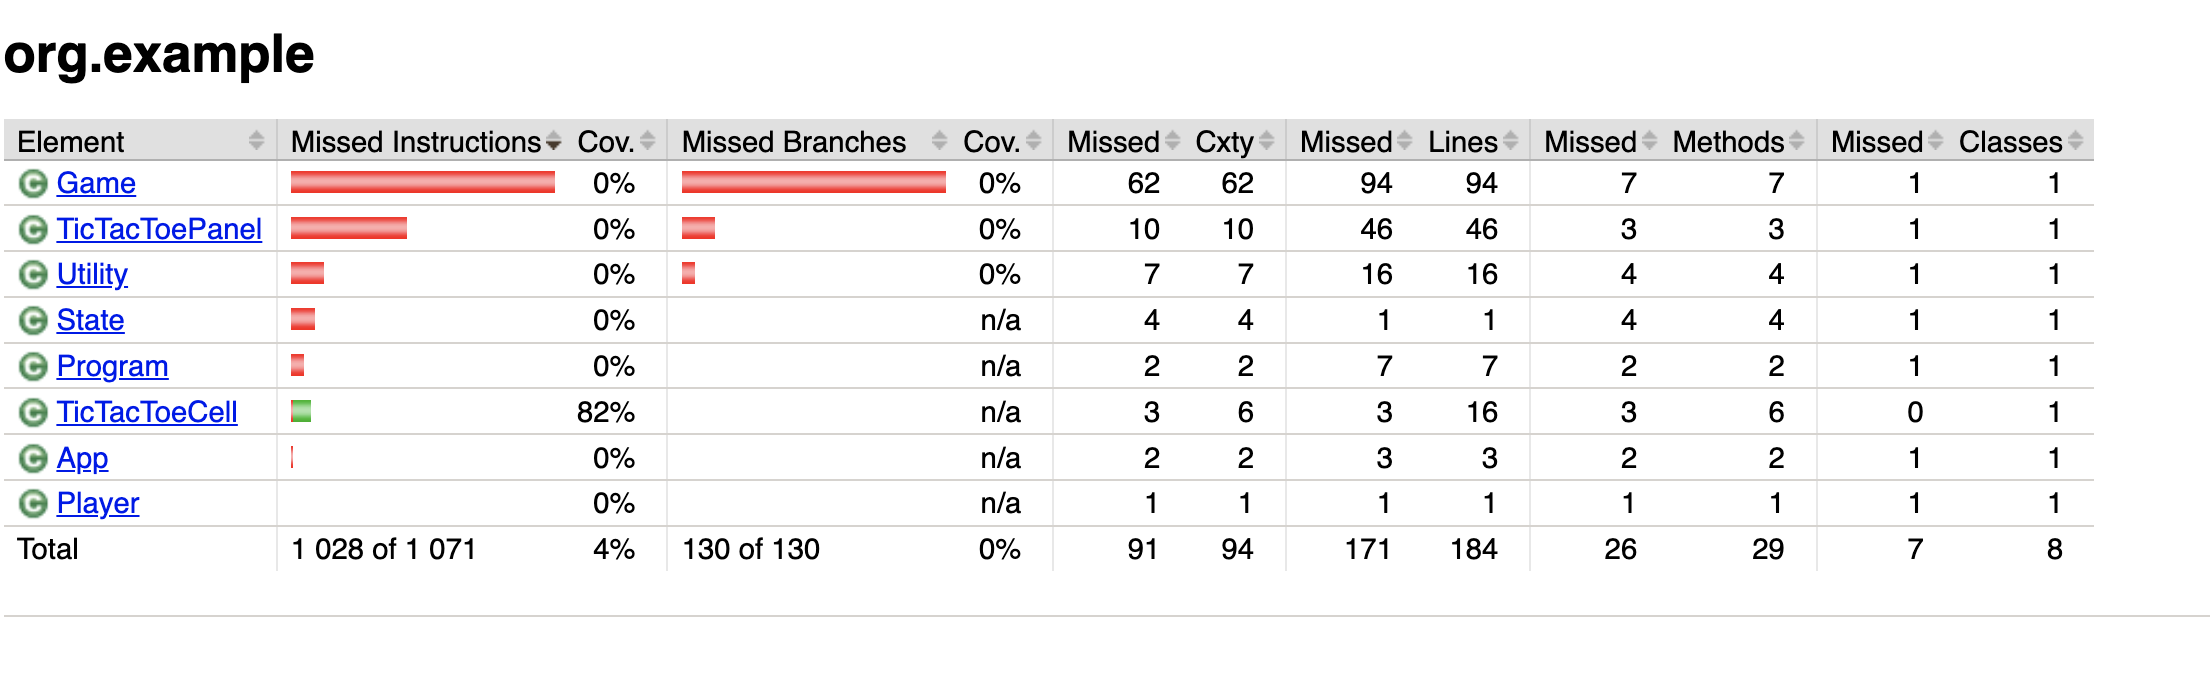
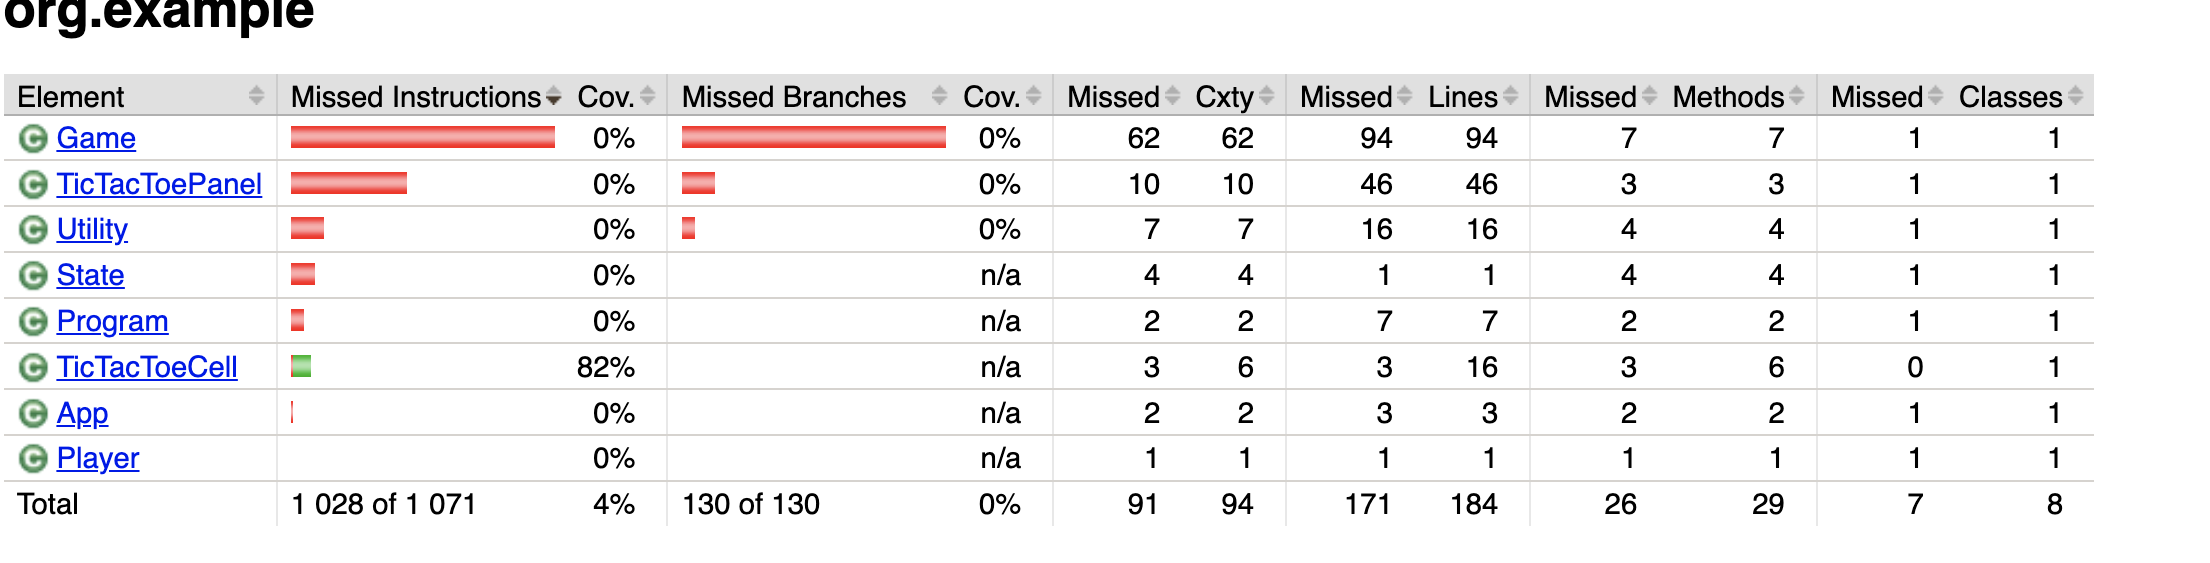
ST-6 release

Changed region(s): [[0.0, 0.0, 0.9679, 0.9361]]

diff --git a/src/test/java/com/dura1/GameTest.java b/src/test/java/com/dura1/GameTest.java
@@ -1,0 +1,150 @@
+package com.dura1;
+
+import org.junit.Assert;
+import org.junit.Before;
+import org.junit.Test;
+
+import java.io.ByteArrayOutputStream;
+import java.io.PrintStream;
+import java.util.ArrayList;
+import java.util.Arrays;
+
+public class GameTest {
+
+    private Game game;
+    private final ByteArrayOutputStream out = new ByteArrayOutputStream();
+
+    @Before
+    public void setUp() {
+        System.setProperty("java.awt.headless", "true");
+        game = new Game();
+        System.setOut(new PrintStream(out));
+    }
+
+    @Test
+    public void checkStatePlayingEmpty() {
+        game.symbol = 'X';
+        char[] b = new char[9];
+        Arrays.fill(b, ' ');
+        Assert.assertEquals(State.PLAYING, game.checkState(b));
+    }
+
+    @Test
+    public void checkStateXWinTopRow() {
+        game.symbol = 'X';
+        char[] b = {'X', 'X', 'X', ' ', ' ', ' ', ' ', ' ', ' '};
+        Assert.assertEquals(State.XWIN, game.checkState(b));
+    }
+
+    @Test
+    public void checkStateOWinColumn() {
+        game.symbol = 'O';
+        char[] b = {'O', ' ', ' ', 'O', ' ', ' ', 'O', ' ', ' '};
+        Assert.assertEquals(State.OWIN, game.checkState(b));
+    }
+
+    @Test
+    public void checkStateDrawFull() {
+        game.symbol = 'X';
+        char[] b = {'X', 'O', 'X', 'X', 'O', 'O', 'O', 'X', 'X'};
+        Assert.assertEquals(State.DRAW, game.checkState(b));
+    }
+
+    @Test
+    public void checkStateDiagWin() {
+        game.symbol = 'X';
+        char[] b = {'X', ' ', ' ', ' ', 'X', ' ', ' ', ' ', 'X'};
+        Assert.assertEquals(State.XWIN, game.checkState(b));
+    }
+
+    @Test
+    public void checkStateAntiDiagWin() {
+        game.symbol = 'O';
+        char[] b = {' ', ' ', 'O', ' ', 'O', ' ', 'O', ' ', ' '};
+        Assert.assertEquals(State.OWIN, game.checkState(b));
+    }
+
+    @Test
+    public void evaluateXWinForX() {
+        game.symbol = 'X';
+        char[] b = {'X', 'X', 'X', ' ', ' ', ' ', ' ', ' ', ' '};
+        Player p = new Player();
+        p.symbol = 'X';
+        Assert.assertEquals(Game.INF, game.evaluatePosition(b, p));
+    }
+
+    @Test
+    public void evaluateXWinForO() {
+        game.symbol = 'X';
+        char[] b = {'X', 'X', 'X', ' ', ' ', ' ', ' ', ' ', ' '};
+        Player p = new Player();
+        p.symbol = 'O';
+        Assert.assertEquals(-Game.INF, game.evaluatePosition(b, p));
+    }
+
+    @Test
+    public void evaluateDraw() {
+        game.symbol = 'X';
+        char[] b = {'X', 'O', 'X', 'X', 'O', 'O', 'O', 'X', 'X'};
+        Player p = new Player();
+        p.symbol = 'X';
+        Assert.assertEquals(0, game.evaluatePosition(b, p));
+    }
+
+    @Test
+    public void evaluateNonTerminal() {
+        game.symbol = 'X';
+        char[] b = {'X', ' ', ' ', ' ', ' ', ' ', ' ', ' ', ' '};
+        Player p = new Player();
+        p.symbol = 'X';
+        Assert.assertEquals(-1, game.evaluatePosition(b, p));
+    }
+
+    @Test
+    public void generateMovesListsEmptyCells() {
+        char[] b = {'X', ' ', ' ', ' ', 'O', ' ', ' ', ' ', ' '};
+        ArrayList<Integer> m = new ArrayList<>();
+        game.generateMoves(b, m);
+        Assert.assertEquals(7, m.size());
+        Assert.assertTrue(m.contains(1));
+        Assert.assertFalse(m.contains(0));
+    }
+
+    @Test
+    public void minimaxChoosesMoveFromEmpty() {
+        game.symbol = ' ';
+        Arrays.fill(game.board, ' ');
+        game.player1.symbol = 'X';
+        game.player2.symbol = 'O';
+        Player ai = game.player2;
+        int move = game.MiniMax(game.board, ai);
+        Assert.assertTrue(move >= 1 && move <= 9);
+    }
+
+    @Test
+    public void minimaxBlocksImmediateWin() {
+        game.symbol = 'X';
+        char[] b = {'X', 'X', ' ', ' ', 'O', ' ', ' ', ' ', ' '};
+        System.arraycopy(b, 0, game.board, 0, 9);
+        game.player2.symbol = 'O';
+        int move = game.MiniMax(game.board, game.player2);
+        Assert.assertEquals(3, move);
+    }
+
+    @Test
+    public void minimaxFromNearEnd() {
+        game.symbol = 'X';
+        char[] b = {'X', 'O', 'X', 'O', 'X', ' ', 'O', 'X', 'O'};
+        System.arraycopy(b, 0, game.board, 0, 9);
+        game.player2.symbol = 'O';
+        int move = game.MiniMax(game.board, game.player2);
+        Assert.assertEquals(6, move);
+    }
+
+    @Test
+    public void playerDefaults() {
+        Player p = new Player();
+        Assert.assertFalse(p.selected);
+        Assert.assertFalse(p.win);
+    }
+}

diff --git a/src/main/java/com/dura1/Program.java b/src/main/java/com/dura1/Program.java
@@ -1,5 +1,5 @@
-// Реализация игры "Крестики-нолики" (3x3)
-// Минимаксный алгоритм
+package com.dura1;// Р РµР°Р»РёР·Р°С†РёСЏ РёРіСЂС‹ "РљСЂРµСЃС‚РёРєРё-РЅРѕР»РёРєРё" (3x3)
+// РњРёРЅРёРјР°РєСЃРЅС‹Р№ Р°Р»РіРѕСЂРёС‚Рј
 
 import java.awt.*;
 import java.awt.event.*;
@@ -23,8 +23,8 @@ class Player {
 class Game {
     public State state;
     public Player player1, player2;
-    public Player cplayer; // текущий игрок
-    public int nmove;  // последний шаг сделанный действующим игроком 
+    public Player cplayer; // С‚РµРєСѓС‰РёР№ РёРіСЂРѕРє
+    public int nmove;  // РїРѕСЃР»РµРґРЅРёР№ С€Р°Рі СЃРґРµР»Р°РЅРЅС‹Р№ РґРµР№СЃС‚РІСѓСЋС‰РёРј РёРіСЂРѕРєРѕРј 
     public char symbol;
     public static final int INF = 100;
     public int q;
@@ -37,12 +37,12 @@ class Game {
       player1.symbol='X';
       player2.symbol='O';
       state=State.PLAYING; 
-      board=new char[9];   // текущая доска в игре  
+      board=new char[9];   // С‚РµРєСѓС‰Р°СЏ РґРѕСЃРєР° РІ РёРіСЂРµ  
       for(int i=0;i<9;i++)
         board[i]=' ';
     }
 
-    // возвращаем состояние игры
+    // РІРѕР·РІСЂР°С‰Р°РµРј СЃРѕСЃС‚РѕСЏРЅРёРµ РёРіСЂС‹
     public State checkState(char[] board) 
     {
       //char symbol=game.symbol;//cplayer.symbol;
@@ -73,14 +73,14 @@ class Game {
     }
     return state;
   }
-     // сгенерировать возможные ходы
+     // СЃРіРµРЅРµСЂРёСЂРѕРІР°С‚СЊ РІРѕР·РјРѕР¶РЅС‹Рµ С…РѕРґС‹
    void generateMoves(char[] board, ArrayList<Integer> move_list) {
     for (int i = 0; i < 9; i++) 
         if (board[i] == ' ') 
             move_list.add(i);
    }
 
-   // оценка позиции
+   // РѕС†РµРЅРєР° РїРѕР·РёС†РёРё
    int evaluatePosition(char[] board, Player player)  
    {
     State state=checkState(board);
@@ -96,7 +96,7 @@ class Game {
     return -1;
    }
 
-   int MiniMax(char[] board, Player player) // выбор наилучшего хода
+   int MiniMax(char[] board, Player player) // РІС‹Р±РѕСЂ РЅР°РёР»СѓС‡С€РµРіРѕ С…РѕРґР°
    {
     int best_val = -Game.INF, index = 0;
     ArrayList<Integer> move_list=new ArrayList<>();
@@ -314,16 +314,16 @@ class TicTacToePanel extends JPanel implements ActionListener {
 
 
       if(game.state==State.XWIN) {
-        JOptionPane.showMessageDialog(null,"Выиграли крестики","Результат", JOptionPane.WARNING_MESSAGE);
+        JOptionPane.showMessageDialog(null,"Р’С‹РёРіСЂР°Р»Рё РєСЂРµСЃС‚РёРєРё","Р РµР·СѓР»СЊС‚Р°С‚", JOptionPane.WARNING_MESSAGE);
         System.exit(0);
 
       }
       else if(game.state==State.OWIN) {
-        JOptionPane.showMessageDialog(null,"Выиграли нолики","Результат", JOptionPane.WARNING_MESSAGE);
+        JOptionPane.showMessageDialog(null,"Р’С‹РёРіСЂР°Р»Рё РЅРѕР»РёРєРё","Р РµР·СѓР»СЊС‚Р°С‚", JOptionPane.WARNING_MESSAGE);
         System.exit(0);
       }
       else if(game.state==State.DRAW) {
-        JOptionPane.showMessageDialog(null,"Ничья","Результат", JOptionPane.WARNING_MESSAGE);
+        JOptionPane.showMessageDialog(null,"РќРёС‡СЊСЏ","Р РµР·СѓР»СЊС‚Р°С‚", JOptionPane.WARNING_MESSAGE);
         System.exit(0);
       } 
 

diff --git a/src/test/java/com/dura1/UtilityTest.java b/src/test/java/com/dura1/UtilityTest.java
@@ -1,0 +1,49 @@
+package com.dura1;
+
+import org.junit.Assert;
+import org.junit.Before;
+import org.junit.Test;
+
+import java.io.ByteArrayOutputStream;
+import java.io.PrintStream;
+import java.util.ArrayList;
+import java.util.Arrays;
+
+public class UtilityTest {
+
+    private ByteArrayOutputStream buf;
+
+    @Before
+    public void setUp() {
+        buf = new ByteArrayOutputStream();
+        System.setOut(new PrintStream(buf));
+    }
+
+    @Test
+    public void printCharBoard() {
+        char[] b = {'X', 'O', ' '};
+        char[] full = new char[9];
+        Arrays.fill(full, ' ');
+        System.arraycopy(b, 0, full, 0, 3);
+        Utility.print(full);
+        String s = buf.toString();
+        Assert.assertTrue(s.contains("X"));
+        Assert.assertTrue(s.contains("O"));
+    }
+
+    @Test
+    public void printIntBoard() {
+        int[] a = {0, 1, 2, 3, 4, 5, 6, 7, 8};
+        Utility.print(a);
+        Assert.assertTrue(buf.toString().contains("0"));
+    }
+
+    @Test
+    public void printMoveList() {
+        ArrayList<Integer> m = new ArrayList<>();
+        m.add(1);
+        m.add(3);
+        Utility.print(m);
+        Assert.assertTrue(buf.toString().contains("1"));
+    }
+}

diff --git a/src/test/java/com/dura1/TicTacToePanelTest.java b/src/test/java/com/dura1/TicTacToePanelTest.java
@@ -1,0 +1,41 @@
+package com.dura1;
+
+import org.junit.Assert;
+import org.junit.Before;
+import org.junit.Test;
+
+import java.awt.GridLayout;
+import java.awt.event.ActionEvent;
+
+public class TicTacToePanelTest {
+
+    static final class CapturingPanel extends TicTacToePanel {
+        State lastFinish;
+
+        CapturingPanel() {
+            super(new GridLayout(3, 3));
+        }
+
+    }
+
+    @Before
+    public void setUp() {
+        System.setProperty("java.awt.headless", "true");
+    }
+
+    @Test
+    public void panelConstructs() {
+        TicTacToePanel p = new TicTacToePanel(new GridLayout(3, 3));
+        Assert.assertNotNull(p);
+    }
+
+    @Test
+    public void firstHumanMoveDoesNotFinish() throws Exception {
+        CapturingPanel panel = new CapturingPanel();
+        java.lang.reflect.Field f = TicTacToePanel.class.getDeclaredField("cells");
+        f.setAccessible(true);
+        TicTacToeCell[] cells = (TicTacToeCell[]) f.get(panel);
+        panel.actionPerformed(new ActionEvent(cells[0], ActionEvent.ACTION_PERFORMED, ""));
+        Assert.assertNull(panel.lastFinish);
+    }
+}

diff --git a/src/test/java/com/dura1/TicTacToeCellTest.java b/src/test/java/com/dura1/TicTacToeCellTest.java
@@ -1,0 +1,24 @@
+package com.dura1;
+
+import org.junit.Assert;
+import org.junit.Before;
+import org.junit.Test;
+
+public class TicTacToeCellTest {
+
+    @Before
+    public void setUp() {
+        System.setProperty("java.awt.headless", "true");
+    }
+
+    @Test
+    public void cellGeometryAndMarker() {
+        TicTacToeCell c = new TicTacToeCell(4, 1, 2);
+        Assert.assertEquals(4, c.getNum());
+        Assert.assertEquals(1, c.getCol());
+        Assert.assertEquals(2, c.getRow());
+        Assert.assertEquals(' ', c.getMarker());
+        c.setMarker("X");
+        Assert.assertEquals('X', c.getMarker());
+    }
+}

diff --git a/src/test/java/com/dura1/StateAndProgramTest.java b/src/test/java/com/dura1/StateAndProgramTest.java
@@ -1,0 +1,22 @@
+package com.dura1;
+
+import org.junit.Assert;
+import org.junit.Test;
+
+import java.lang.reflect.Method;
+
+public class StateAndProgramTest {
+
+    @Test
+    public void stateValues() {
+        State[] v = State.values();
+        Assert.assertEquals(4, v.length);
+        Assert.assertEquals(State.PLAYING, State.valueOf("PLAYING"));
+    }
+
+    @Test
+    public void programMainDeclared() throws Exception {
+        Method m = Program.class.getMethod("main", String[].class);
+        Assert.assertTrue(java.lang.reflect.Modifier.isStatic(m.getModifiers()));
+    }
+}
